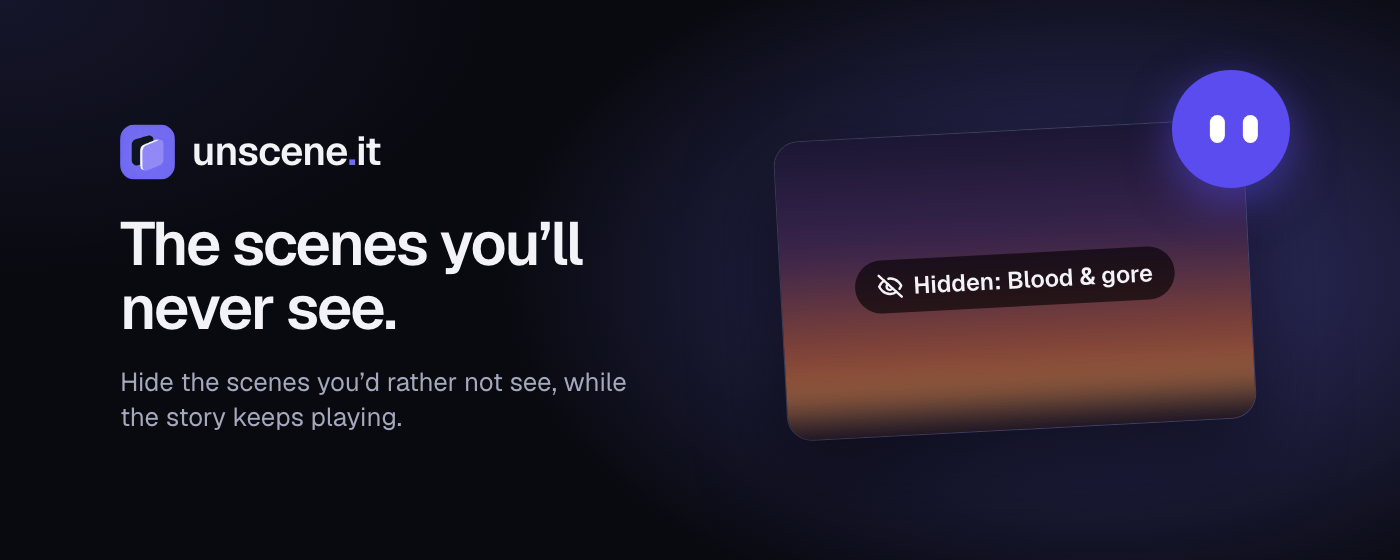
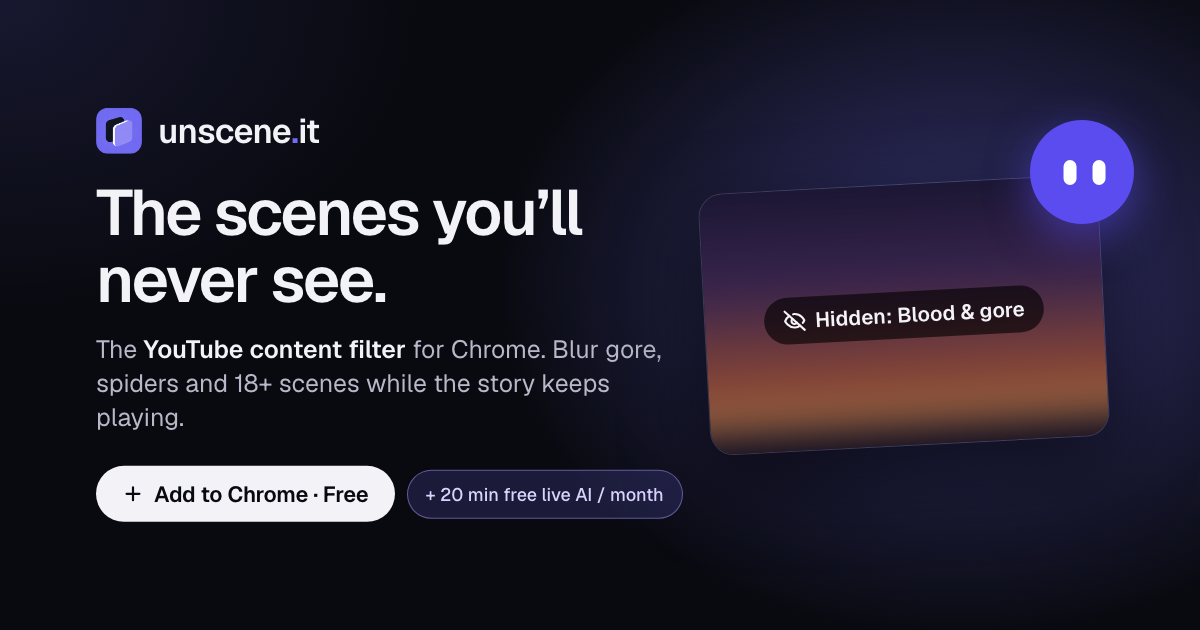
chore: update og

Changed region(s): [[0.0617, 0.1214, 0.9558, 0.85], [0.0617, 0.1518, 0.4933, 0.4857]]

diff --git a/website/index.html b/website/index.html
@@ -13,15 +13,17 @@
     <meta property="og:type" content="website" />
     <meta property="og:site_name" content="unscene.it" />
     <meta property="og:url" content="https://unscene.it/" />
-    <meta property="og:title" content="unscene.it · The YouTube content filter that hides the scenes you choose" />
+    <meta property="og:title" content="unscene.it: Hide Gore, Spiders &amp; 18+ Scenes on YouTube" />
     <meta property="og:description" content="Blur gore, spiders, 18+ scenes and thumbnails on YouTube while the story keeps playing. Free Chrome extension." />
-    <meta property="og:image" content="https://unscene.it/og.png" />
-    <meta property="og:image:width" content="1400" />
-    <meta property="og:image:height" content="560" />
-    <meta property="og:image:alt" content="unscene.it: The scenes you'll never see. A video scene labelled Hidden: Blood &amp; gore, with Xenia in the corner." />
+    <!-- ?v=: platforms cache previews by URL; bump it when og.png changes (store/render.sh). -->
+    <meta property="og:image" content="https://unscene.it/og.png?v=2" />
+    <meta property="og:image:type" content="image/png" />
+    <meta property="og:image:width" content="1200" />
+    <meta property="og:image:height" content="630" />
+    <meta property="og:image:alt" content="unscene.it, the YouTube content filter for Chrome: a video scene blurred and labelled Hidden: Blood &amp; gore, with an Add to Chrome, free button." />
     <meta name="twitter:card" content="summary_large_image" />
     <!-- Structured data: the extension, who makes it, the site. No ratings until the store has real ones. -->
-    <script type="application/ld+json">{"@context": "https://schema.org", "@graph": [{"@type": "SoftwareApplication", "@id": "https://unscene.it/#app", "name": "unscene.it", "description": "A YouTube content filter for Chrome that blurs the scenes you choose (blood and gore, spiders and insects, sensual content, or anything above an age limit) while the video keeps playing. It also blurs YouTube thumbnails.", "applicationCategory": "BrowserApplication", "applicationSubCategory": "Content filter", "operatingSystem": "Chrome", "url": "https://unscene.it/", "downloadUrl": "https://chromewebstore.google.com/detail/unsceneit/inpekbgpobkhdmfilepnojnfflhocgid", "image": "https://unscene.it/icon.png", "screenshot": "https://unscene.it/og.png", "offers": {"@type": "Offer", "price": "0", "priceCurrency": "USD"}, "featureList": ["Hide blood and gore in YouTube videos", "Hide spiders and insects (arachnophobia filter)", "Hide sensual and revealing content", "Age limits: Under 12, Under 15, Under 18", "Blur YouTube thumbnails and hover previews", "Mute sound while a scene is hidden", "20 free minutes of live AI screening a month"], "publisher": {"@id": "https://unscene.it/#org"}}, {"@type": "Organization", "@id": "https://unscene.it/#org", "name": "unscene.it", "legalName": "DoubleCross Digital LLC", "url": "https://unscene.it/", "logo": "https://unscene.it/icon.png", "email": "hello@unscene.it"}, {"@type": "WebSite", "@id": "https://unscene.it/#site", "name": "unscene.it", "url": "https://unscene.it/", "publisher": {"@id": "https://unscene.it/#org"}}]}</script>
+    <script type="application/ld+json">{"@context": "https://schema.org", "@graph": [{"@type": "SoftwareApplication", "@id": "https://unscene.it/#app", "name": "unscene.it", "description": "A YouTube content filter for Chrome that blurs the scenes you choose (blood and gore, spiders and insects, sensual content, or anything above an age limit) while the video keeps playing. It also blurs YouTube thumbnails.", "applicationCategory": "BrowserApplication", "applicationSubCategory": "Content filter", "operatingSystem": "Chrome", "url": "https://unscene.it/", "downloadUrl": "https://chromewebstore.google.com/detail/unsceneit/inpekbgpobkhdmfilepnojnfflhocgid", "image": "https://unscene.it/icon.png", "screenshot": "https://unscene.it/og.png?v=2", "offers": {"@type": "Offer", "price": "0", "priceCurrency": "USD"}, "featureList": ["Hide blood and gore in YouTube videos", "Hide spiders and insects (arachnophobia filter)", "Hide sensual and revealing content", "Age limits: Under 12, Under 15, Under 18", "Blur YouTube thumbnails and hover previews", "Mute sound while a scene is hidden", "20 free minutes of live AI screening a month"], "publisher": {"@id": "https://unscene.it/#org"}}, {"@type": "Organization", "@id": "https://unscene.it/#org", "name": "unscene.it", "legalName": "DoubleCross Digital LLC", "url": "https://unscene.it/", "logo": "https://unscene.it/icon.png", "email": "hello@unscene.it"}, {"@type": "WebSite", "@id": "https://unscene.it/#site", "name": "unscene.it", "url": "https://unscene.it/", "publisher": {"@id": "https://unscene.it/#org"}}]}</script>
   </head>
   <body>
     <div id="root"></div>

diff --git a/store/promo.html b/store/promo.html
@@ -3,6 +3,9 @@
   Chrome Web Store promo images, rendered to PNG by render.sh:
     promo.html?size=small    → promo-small-440x280.png   (required)
     promo.html?size=marquee  → promo-marquee-1400x560.png (optional)
+    promo.html?size=og       → og-1200x630.png, the website's link preview
+                               (website/public/og.png). Everything sits in a
+                               safe centre area, since some apps crop the sides.
   Brand colours match website/src/index.css; Xenia matches extension/notice.js.
 -->
 <html lang="en">
@@ -22,6 +25,11 @@
       }
       body.small { width: 440px; height: 280px; --s: 1; }
       body.marquee { width: 1400px; height: 560px; --s: 2.1; }
+      body.og { width: 1200px; height: 630px; --s: 2;
+        background:
+          radial-gradient(55% 80% at 80% 45%, rgb(113 107 243 / 0.42), transparent 70%),
+          radial-gradient(50% 70% at 0% 0%, rgb(113 107 243 / 0.14), transparent 70%),
+          #090a10; }
 
       .copy { position: absolute; top: 50%; transform: translateY(-50%); left: calc(30px * var(--s)); width: calc(205px * var(--s)); }
       .marquee .copy { left: 120px; width: 600px; }
@@ -35,6 +43,30 @@
       }
       .sub { display: none; }
       .marquee .sub { display: block; margin-top: 26px; font-size: 26px; line-height: 1.35; color: #a6a8bd; max-width: 520px; }
+
+      /* og: the link preview, with a call to action */
+      .og .copy { left: 96px; width: 580px; }
+      .og .logo img { width: 46px; height: 46px; border-radius: 12px; }
+      .og .logo span { font-size: 34px; }
+      .og h1 { margin-top: 26px; font-size: 64px; }
+      .og .sub { display: block; margin-top: 20px; font-size: 25px; line-height: 1.35; color: #b8b8c8; }
+      .og .sub b { color: #f2f2f7; font-weight: 600; }
+      .cta { display: none; }
+      .og .cta { display: flex; align-items: center; gap: 12px; margin-top: 32px; white-space: nowrap; }
+      .og .cta .add {
+        display: inline-flex; align-items: center; gap: 10px; padding: 14px 26px; border-radius: 999px;
+        background: #f2f2f7; color: #090a10; font-size: 22px; font-weight: 600; letter-spacing: -0.01em;
+      }
+      .og .cta .add svg { width: 22px; height: 22px; }
+      .og .cta .free {
+        padding: 12px 18px; border-radius: 999px; font-size: 18px; font-weight: 500; color: #d9d4ff;
+        border: 1px solid rgb(169 156 255 / 0.5); background: rgb(113 107 243 / 0.18);
+      }
+      .og .frame { right: 96px; width: 400px; height: 262px; }
+      .og .label { font-size: 21px; padding: 10px 19px; gap: 9px; }
+      .og .xenia { width: 104px; height: 104px; right: 66px; top: 120px; }
+      .og .eyes { gap: 16px; }
+      .og .eye { width: 13px; height: 25px; }
 
       /* A small video frame with a hidden scene, Xenia on its corner */
       .frame {
@@ -75,7 +107,14 @@
     <div class="copy">
       <div class="logo"><img src="icon-source.png" alt="" /><span>unscene<b>.</b>it</span></div>
       <h1>The scenes you’ll never see.</h1>
-      <p class="sub">Hide the scenes you’d rather not see, while the story keeps playing.</p>
+      <p class="sub" data-og="The <b>YouTube content filter</b> for Chrome. Blur gore, spiders and 18+ scenes while the story keeps playing.">Hide the scenes you’d rather not see, while the story keeps playing.</p>
+      <div class="cta">
+        <span class="add">
+          <svg viewBox="0 0 24 24" fill="none" stroke="currentColor" stroke-width="2.4" stroke-linecap="round"><path d="M12 5v14M5 12h14" /></svg>
+          Add to Chrome · Free
+        </span>
+        <span class="free">+ 20 min free live AI / month</span>
+      </div>
     </div>
 
     <div class="frame">
@@ -92,7 +131,12 @@
     <div class="xenia"><div class="eyes"><span class="eye"></span><span class="eye"></span></div></div>
 
     <script>
-      document.body.className = new URLSearchParams(location.search).get("size") === "marquee" ? "marquee" : "small";
+      const size = new URLSearchParams(location.search).get("size");
+      document.body.className = size === "marquee" || size === "og" ? size : "small";
+      if (size === "og") {
+        const sub = document.querySelector(".sub");
+        sub.innerHTML = sub.dataset.og;
+      }
     </script>
   </body>
 </html>
